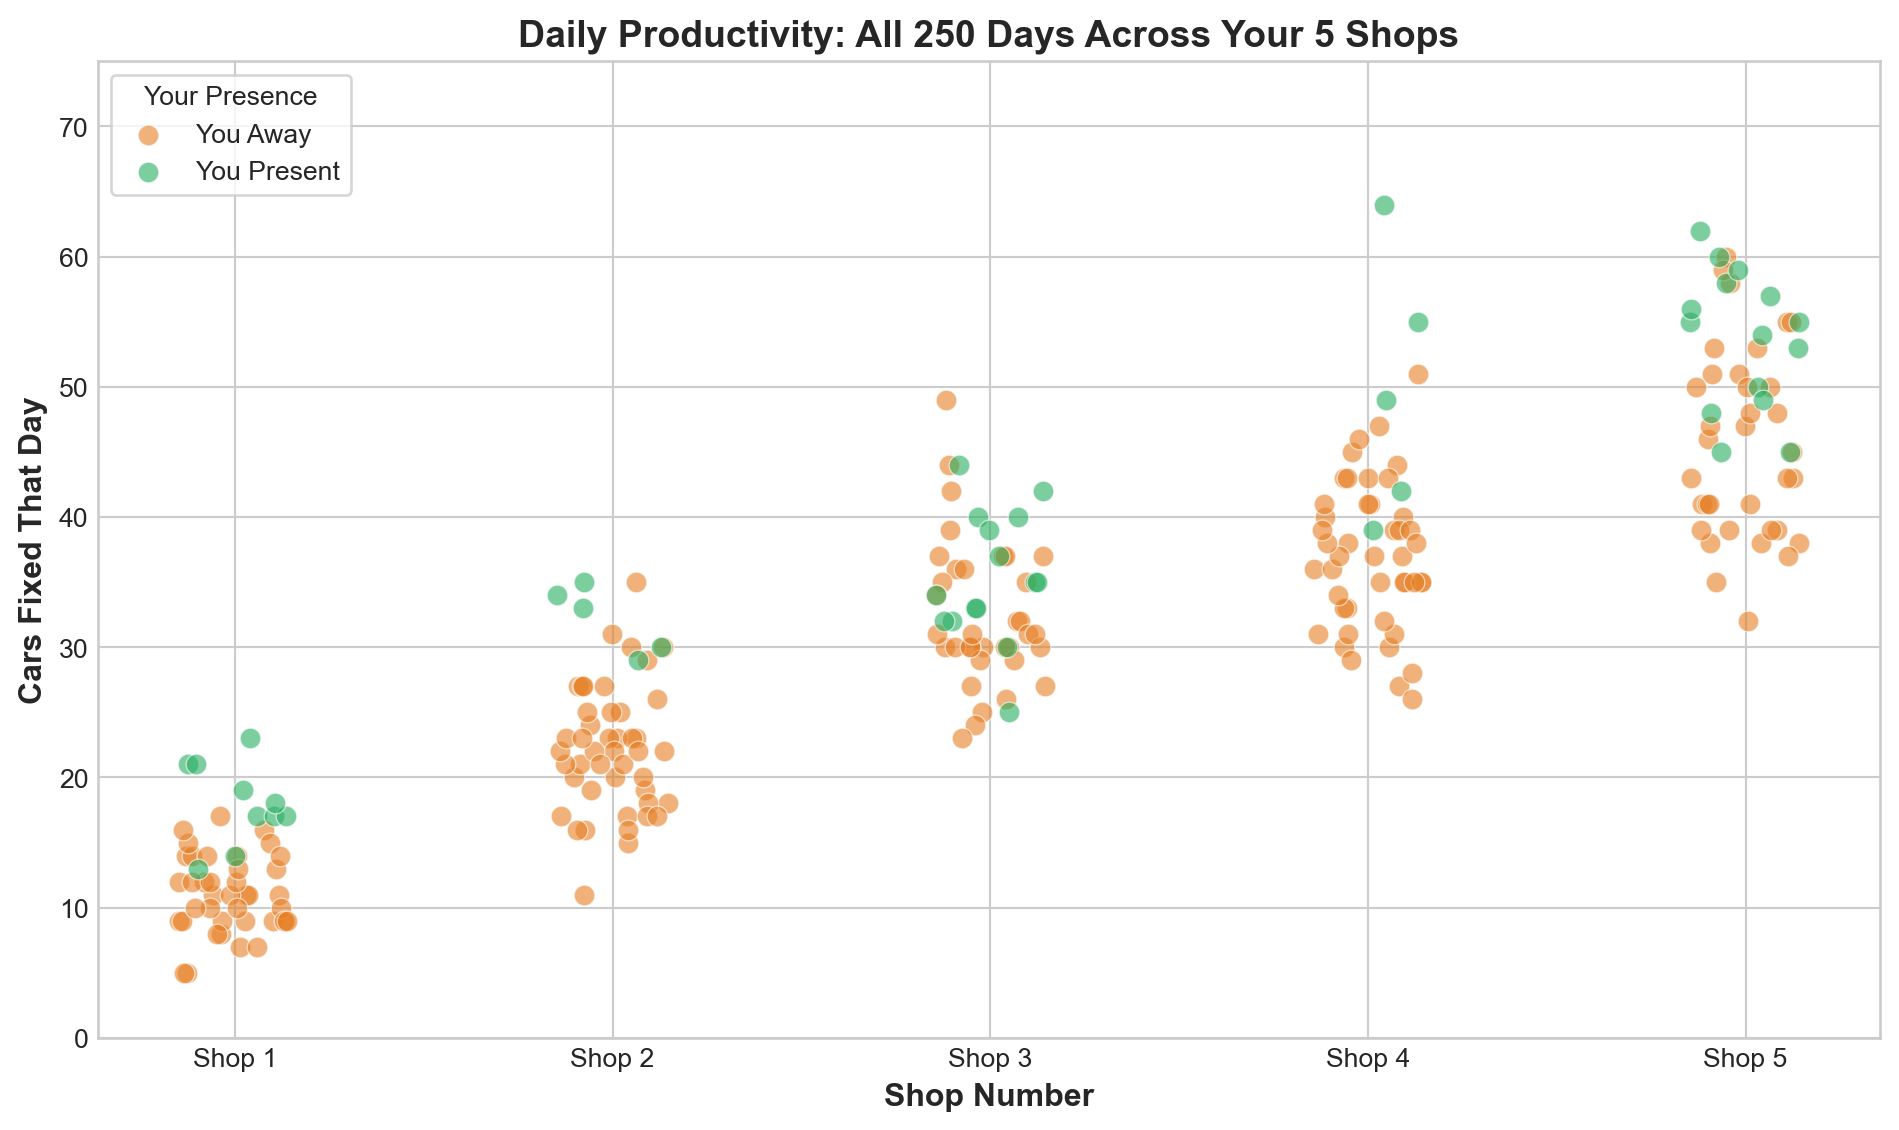
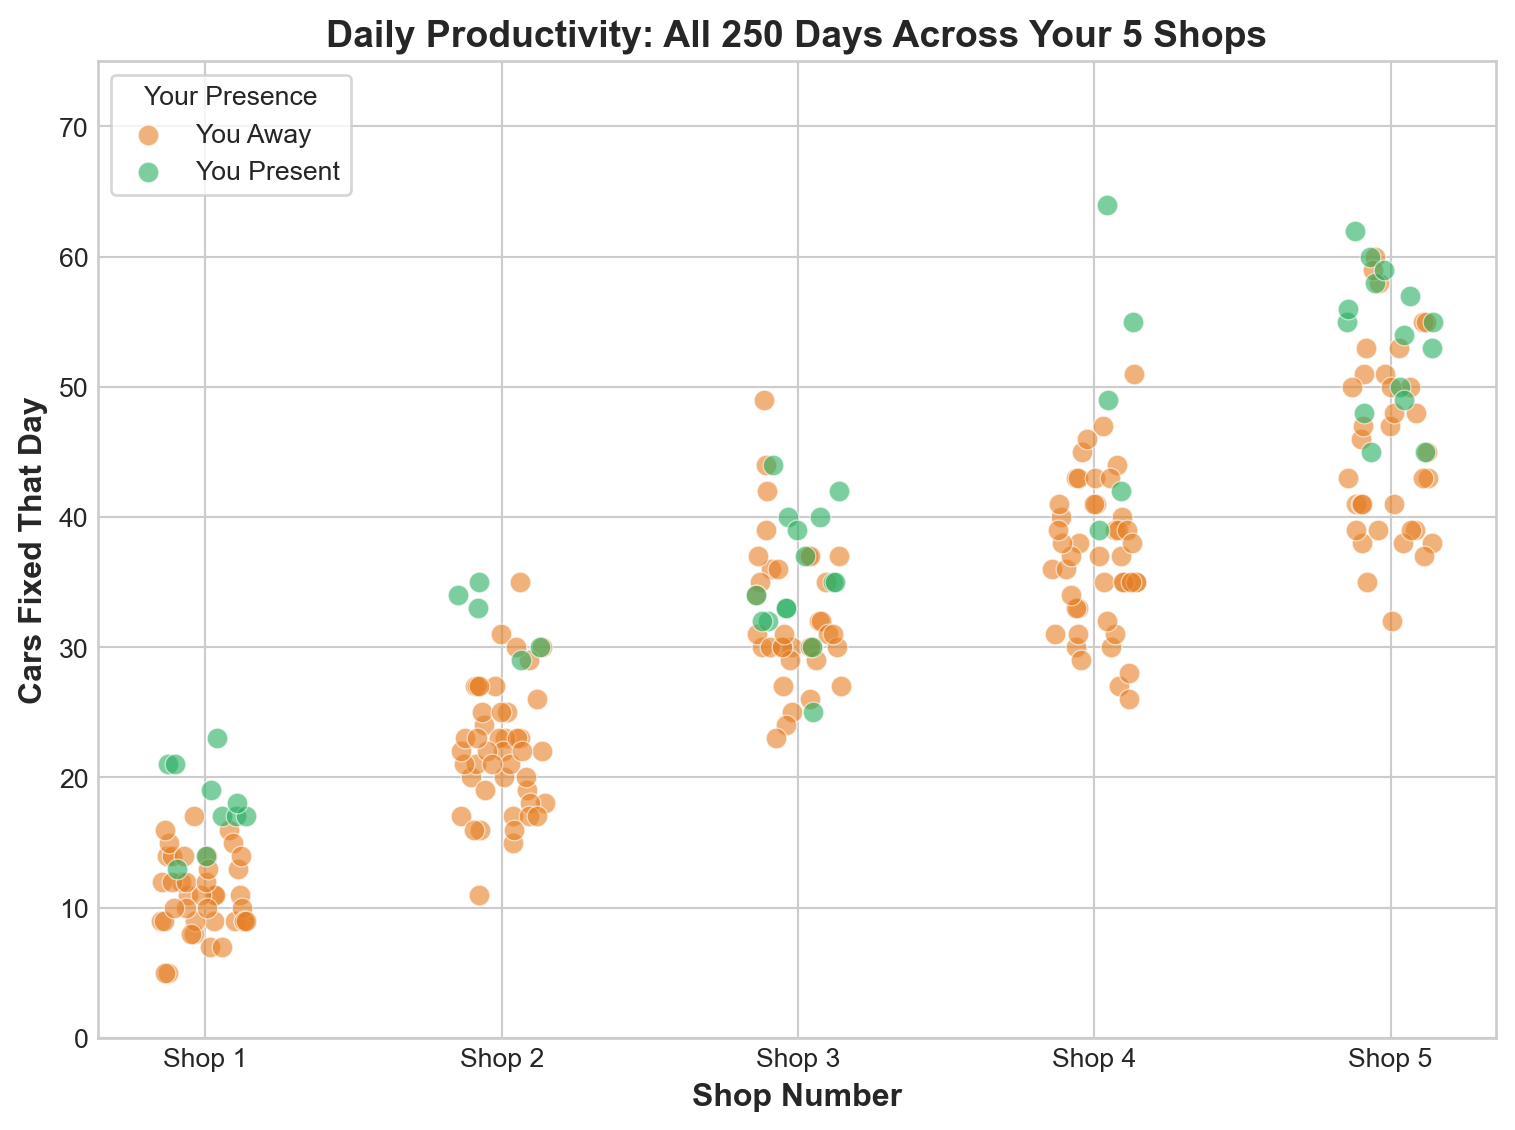
Render index.qmd

diff --git a/index.html b/index.html
@@ -103,11 +103,11 @@ ul.task-list li input[type="checkbox"] {
 <section id="what-the-data-shows" class="level2">
 <h2 class="anchored" data-anchor-id="what-the-data-shows">What the Data Shows</h2>
 <p>We analyzed 250 days of productivity data across your 5 shops. Here’s every single day plotted—you can see the pattern clearly:</p>
-<div id="7d497d59" class="cell" data-fig-height="6" data-fig-width="10" data-execution_count="2">
+<div id="b04633f2" class="cell" data-fig-height="6" data-fig-width="8" data-execution_count="2">
 <div class="cell-output cell-output-display">
 <div class="quarto-figure quarto-figure-center">
 <figure class="figure">
-<p><img src="index_files/figure-html/cell-3-output-1.png" width="950" height="565" class="figure-img"></p>
+<p><img src="index_files/figure-html/cell-3-output-1.png" width="758" height="565" class="figure-img"></p>
 <figcaption>Each dot is one day. Green = you were there. Orange = you were away.</figcaption>
 </figure>
 </div>
@@ -119,7 +119,7 @@ ul.task-list li input[type="checkbox"] {
 <section id="d-view-shop-performance-landscape" class="level2">
 <h2 class="anchored" data-anchor-id="d-view-shop-performance-landscape">3D View: Shop Performance Landscape</h2>
 <p>Here’s an interactive 3D perspective showing all three dimensions at once—Shop ID, your presence status, and cars fixed:</p>
-<div id="9a185435" class="cell" data-fig-height="8" data-fig-width="10" data-execution_count="3">
+<div id="e8e5f7d9" class="cell" data-fig-height="8" data-fig-width="10" data-execution_count="3">
 <div class="cell-output cell-output-display">
 <div class="quarto-figure quarto-figure-center">
 <figure class="figure">
@@ -135,7 +135,7 @@ ul.task-list li input[type="checkbox"] {
 <section id="the-boss-boost-effect" class="level2">
 <h2 class="anchored" data-anchor-id="the-boss-boost-effect">The “Boss Boost” Effect</h2>
 <p>Here’s the real question: <strong>How many extra cars get fixed when you’re at each shop?</strong></p>
-<div id="1e55c57e" class="cell" data-fig-height="5" data-fig-width="9" data-execution_count="4">
+<div id="b17d2f71" class="cell" data-fig-height="5" data-fig-width="9" data-execution_count="4">
 <div class="cell-output cell-output-display">
 <div class="quarto-figure quarto-figure-center">
 <figure class="figure">
@@ -192,7 +192,7 @@ ul.task-list li input[type="checkbox"] {
 <section id="how-confident-can-you-be" class="level2">
 <h2 class="anchored" data-anchor-id="how-confident-can-you-be">How Confident Can You Be?</h2>
 <p><strong>The honest truth:</strong> We only have 250 days of data, and you weren’t at every shop equally. Here’s what that means:</p>
-<div id="4c5e64d9" class="cell" data-fig-height="4" data-fig-width="9" data-execution_count="5">
+<div id="08f88e1a" class="cell" data-fig-height="4" data-fig-width="9" data-execution_count="5">
 <div class="cell-output cell-output-display">
 <div class="quarto-figure quarto-figure-center">
 <figure class="figure">
@@ -219,7 +219,7 @@ ul.task-list li input[type="checkbox"] {
 <section id="the-money-question" class="level2">
 <h2 class="anchored" data-anchor-id="the-money-question">The Money Question 💰</h2>
 <p>Let’s say each car fixed earns you <strong>$200 in profit</strong>. Here’s what different scheduling strategies could mean for your wallet:</p>
-<div id="b49a4656" class="cell" data-fig-height="5" data-fig-width="10" data-execution_count="6">
+<div id="2c48b976" class="cell" data-fig-height="5" data-fig-width="10" data-execution_count="6">
 <div class="cell-output cell-output-display">
 <div class="quarto-figure quarto-figure-center">
 <figure class="figure">
@@ -304,7 +304,7 @@ ul.task-list li input[type="checkbox"] {
 </section>
 <section id="one-final-chart-your-projected-year" class="level3">
 <h3 class="anchored" data-anchor-id="one-final-chart-your-projected-year">One Final Chart: Your Projected Year</h3>
-<div id="fd877cfc" class="cell" data-fig-height="5" data-fig-width="10" data-execution_count="7">
+<div id="caaa3fab" class="cell" data-fig-height="5" data-fig-width="10" data-execution_count="7">
 <div class="cell-output cell-output-display">
 <div class="quarto-figure quarto-figure-center">
 <figure class="figure">
